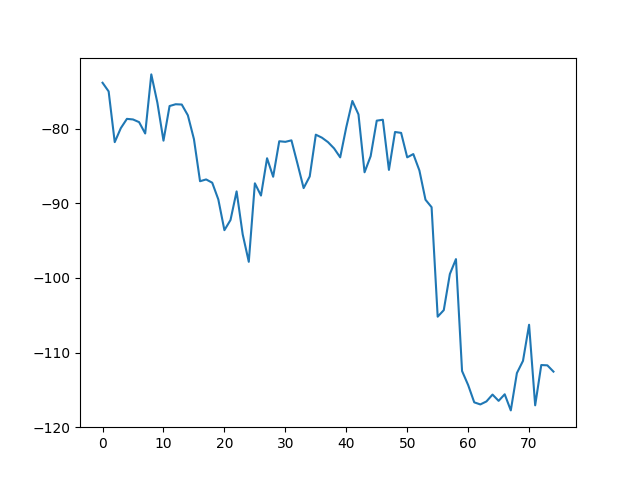
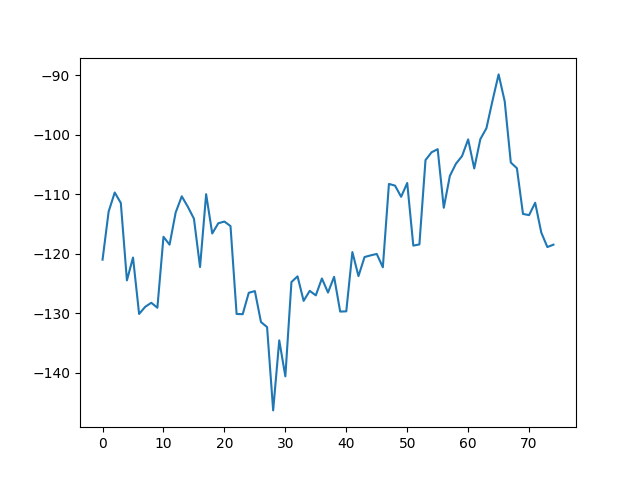
lab1: działa zajebiście

diff --git a/lab1/solution.py b/lab1/solution.py
@@ -9,7 +9,7 @@ from problem import Action, available_actions, Corner, Driver, Experiment, Envir
 
 ALMOST_INFINITE_STEP = 100000
 MAX_LEARNING_STEPS = 500
-EPS = 1e-4
+EPS = 0.1
 
 
 class RandomDriver(Driver):
@@ -91,11 +91,15 @@ class OffPolicyNStepSarsaDriver(Driver):
     def _return_value_weight(self, update_step):
         return_value_weight = 1.0
         for i in range(update_step + 1, min(update_step + self.step_no, self.final_step)):
-            state_t = self.states[self._access_index(update_step)]
-            action_t = self.actions[self._access_index(update_step)]
+            state_t = self.states[self._access_index(i)]
+            action_t = self.actions[self._access_index(i)]
             b = self.epsilon_greedy_policy(state_t, available_actions(state_t))[action_t]
             p = self.greedy_policy(state_t, available_actions(state_t))[action_t]
-            return_value_weight *= p/b
+            if b > 0:
+                return_value_weight *= p/b
+            else:
+                return_value_weight = 0
+                break
         # TODO: Tutaj trzeba policzyć korektę na różne prawdopodobieństwa ρ (ponieważ uczymy poza-polityką)
         return return_value_weight
 
@@ -151,12 +155,12 @@ def main() -> None:
     experiment = Experiment(
         environment=Environment(
             corner=Corner(
-                name='corner_b'
+                name='corner_c'
             ),
             steering_fail_chance=0.01,
         ),
         driver=OffPolicyNStepSarsaDriver(
-            step_no=5,
+            step_no=10,
             step_size=0.3,
             experiment_rate=0.05,
             discount_factor=1.00,
